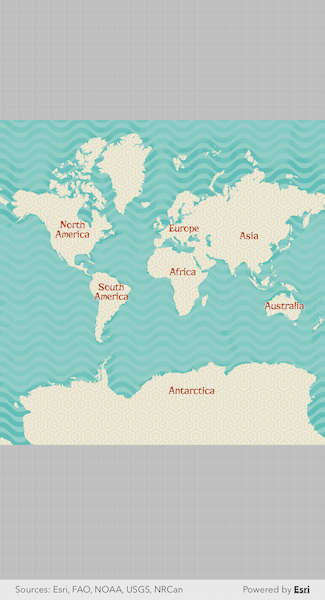
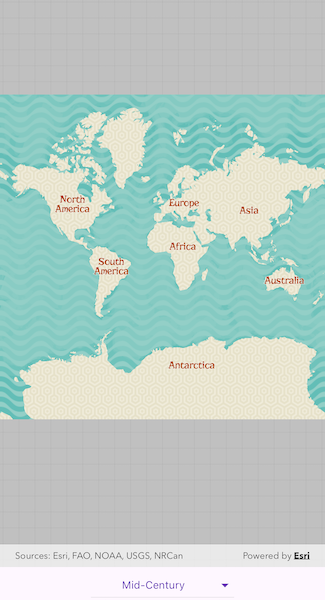
select from multiple vector tiled layers

diff --git a/lib/samples/add_vector_tiled_layer/add_vector_tiled_layer_sample.dart b/lib/samples/add_vector_tiled_layer/add_vector_tiled_layer_sample.dart
@@ -17,6 +17,27 @@
 import 'package:arcgis_maps/arcgis_maps.dart';
 import 'package:flutter/material.dart';
 
+// An enumeration of vector tiled layers to choose from.
+enum Selection {
+  midCentury('Mid-Century', '7675d44bb1e4428aa2c30a9b68f97822'),
+  coloredPencil('Colored Pencil', '4cf7e1fb9f254dcda9c8fbadb15cf0f8'),
+  newspaper('Newspaper', 'dfb04de5f3144a80bc3f9f336228d24a'),
+  nova('Nova', '75f4dfdff19e445395653121a95a85db'),
+  worldStreetMapNight(
+      'World Street Map (Night)', '86f556a2d1fd468181855a35e344567f');
+
+  final String label;
+  final String itemId;
+  const Selection(this.label, this.itemId);
+
+  // a menu item for this selection.
+  DropdownMenuItem<Selection> get menuItem =>
+      DropdownMenuItem(value: this, child: Text(label));
+
+  // the service URL for this selection.
+  Uri get uri => Uri.parse('https://www.arcgis.com/home/item.html?id=$itemId');
+}
+
 class AddVectorTiledLayerSample extends StatefulWidget {
   const AddVectorTiledLayerSample({super.key});
 
@@ -28,29 +49,64 @@ class AddVectorTiledLayerSample extends StatefulWidget {
 class _AddVectorTiledLayerSampleState extends State<AddVectorTiledLayerSample> {
   // create a controller for the map view.
   final _mapViewController = ArcGISMapView.createController();
+  // prepare menu items for the selection of vector tiled layers.
+  final _selectionMenuItems =
+      Selection.values.map((selection) => selection.menuItem).toList();
+  Selection? _selection;
 
   @override
   Widget build(BuildContext context) {
     return Scaffold(
-      // add a map view to the widget tree and set a controller.
-      body: ArcGISMapView(
-        controllerProvider: () => _mapViewController,
-        onMapViewReady: onMapViewReady,
+      body: SafeArea(
+        top: false,
+        child: Column(
+          children: [
+            Expanded(
+              // add a map view to the widget tree and set a controller.
+              child: ArcGISMapView(
+                controllerProvider: () => _mapViewController,
+                onMapViewReady: onMapViewReady,
+              ),
+            ),
+            Center(
+              // add a dropdown button to select a vector tiled layer.
+              child: DropdownButton(
+                icon: const Icon(
+                  Icons.arrow_drop_down,
+                  color: Colors.deepPurple,
+                ),
+                style: const TextStyle(color: Colors.deepPurple),
+                alignment: Alignment.center,
+                value: _selection,
+                items: _selectionMenuItems,
+                onChanged: loadSelection,
+              ),
+            ),
+          ],
+        ),
       ),
     );
   }
 
   void onMapViewReady() {
-    // create a vector tiled layer with a URL to the vector tile service.
-    final vectorTiledLayer = ArcGISVectorTiledLayer.withUri(
-      Uri.parse(
-          'https://www.arcgis.com/home/item.html?id=7675d44bb1e4428aa2c30a9b68f97822'),
-    );
-    // create a basemap with the vector tiled layer.
-    final basemap = Basemap.withBaseLayer(vectorTiledLayer);
-    // create a map with the basemap.
-    final map = ArcGISMap.withBasemap(basemap);
-    // set the map to the map view.
-    _mapViewController.arcGISMap = map;
+    // initially load the Mid-Century vector tiled layer.
+    loadSelection(Selection.midCentury);
+  }
+
+  void loadSelection(Selection? selection) {
+    if (selection != null) {
+      // create a vector tiled layer with a URL to the vector tile service.
+      final vectorTiledLayer = ArcGISVectorTiledLayer.withUri(selection.uri);
+      // create a basemap with the vector tiled layer.
+      final basemap = Basemap.withBaseLayer(vectorTiledLayer);
+      // create a map with the basemap.
+      final map = ArcGISMap.withBasemap(basemap);
+      // set the map to the map view.
+      _mapViewController.arcGISMap = map;
+    } else {
+      _mapViewController.arcGISMap = null;
+    }
+
+    setState(() => _selection = selection);
   }
 }
